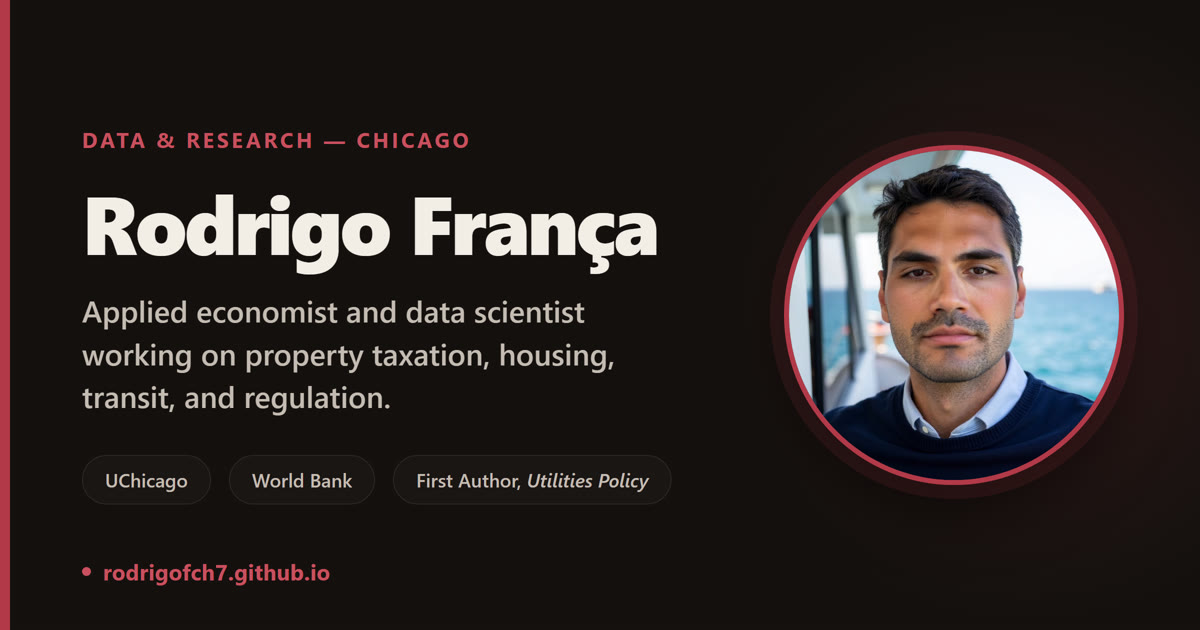
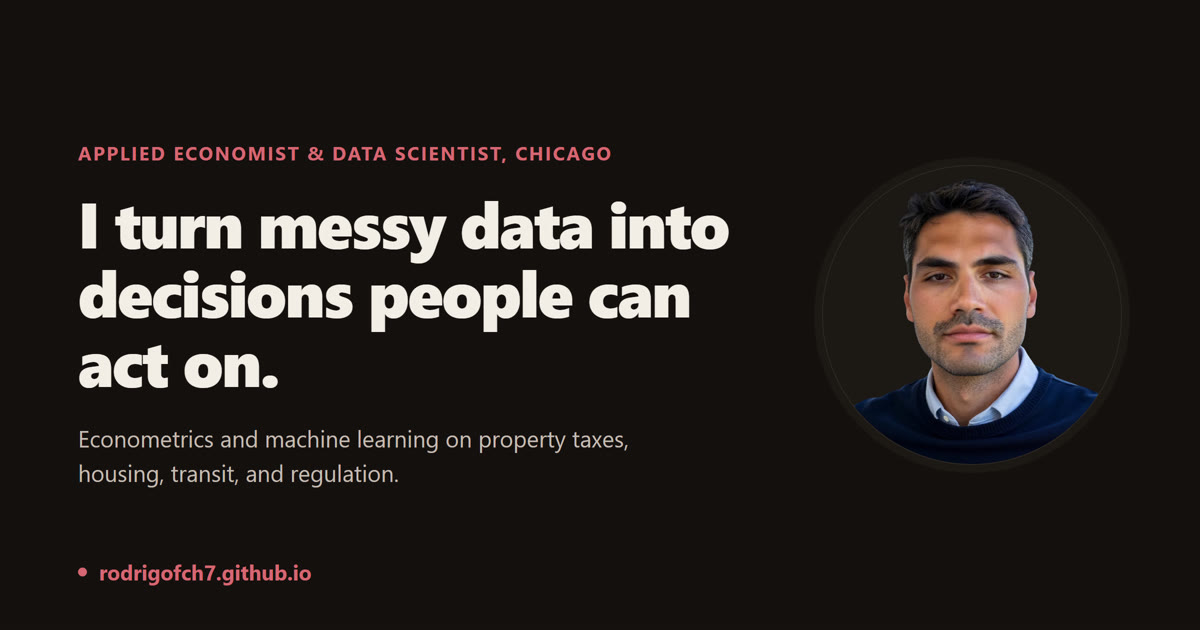
Use the background-free portrait, and rebuild the social card on the site hero
Swaps the boat photo for the supplied cutout, shipped as WebP with alpha
(58K at 850px, against 927K for PNG) so the transparent portrait sits on
whatever the theme paints behind it. .hero-portrait gains a background so
the circle reads in both themes. JPEG copies kept as a raster fallback,
composited on the dark circle tone.

The social card now mirrors the hero rather than being a separate design:
same palette, eyebrow, headline and portrait treatment.

diff --git a/assets/og-card.source.html b/assets/og-card.source.html
@@ -2,85 +2,53 @@
 <html lang="en">
 <head>
 <meta charset="UTF-8">
-<link href="https://fonts.googleapis.com/css2?family=Inter:wght@400;500;600;700;800;900&display=swap" rel="stylesheet">
+<link href="https://fonts.googleapis.com/css2?family=Inter:wght@400;500;700;800&display=swap" rel="stylesheet">
 <style>
-  *{box-sizing:border-box;margin:0;padding:0;}
+  /* Mirrors the site hero: same palette, same type scale, same portrait treatment. */
+  *{box-sizing:border-box;margin:0;padding:0}
   :root{
-    --bg:#14110F; --card:#1F1A17; --maroon:#B23A48; --maroon-bright:#C9505E;
-    --text:#F2EDE6; --text-soft:#C4BCB2; --text-mute:#8A8178; --border:#2E2823;
+    --bg:#14110F; --bg-soft:#1C1815; --maroon-bright:#D66672;
+    --text:#F2EDE6; --text-soft:#C4BCB2; --border:#2E2823;
   }
-  html,body{width:1200px;height:630px;}
+  html,body{width:1200px;height:630px}
   body{
-    background:var(--bg);
+    background:var(--bg); color:var(--text);
     font-family:'Inter',-apple-system,BlinkMacSystemFont,'Segoe UI',sans-serif;
-    color:var(--text);
-    display:flex; align-items:center;
-    position:relative; overflow:hidden;
+    display:flex; align-items:center; padding:0 78px;
   }
-  /* soft maroon glow behind the portrait */
-  .glow{
-    position:absolute; right:-140px; top:50%; transform:translateY(-50%);
-    width:620px; height:620px; border-radius:50%;
-    background:radial-gradient(circle, rgba(178,58,72,0.22) 0%, rgba(178,58,72,0.06) 45%, transparent 70%);
-  }
-  .accent{position:absolute; left:0; top:0; bottom:0; width:10px; background:var(--maroon);}
-  .inner{
-    position:relative; z-index:2;
-    display:flex; align-items:center; gap:64px;
-    padding:0 76px 0 82px; width:100%;
-  }
-  .left{flex:1; min-width:0;}
+  .hero-top{display:grid; grid-template-columns:1fr 300px; gap:56px; align-items:center; width:100%}
   .eyebrow{
-    font-size:21px; font-weight:700; color:var(--maroon-bright);
-    text-transform:uppercase; letter-spacing:0.14em; margin-bottom:26px;
+    font-size:19px; font-weight:700; color:var(--maroon-bright);
+    text-transform:uppercase; letter-spacing:0.09em; margin-bottom:22px;
   }
   h1{
-    font-size:82px; font-weight:800; line-height:1.02;
-    letter-spacing:-0.033em; margin-bottom:26px; white-space:nowrap;
+    font-weight:800; font-size:64px; line-height:1.08;
+    letter-spacing:-0.028em; margin-bottom:26px; color:var(--text);
   }
-  .role{
-    font-size:30px; font-weight:500; color:var(--text-soft);
-    line-height:1.42; margin-bottom:38px; max-width:600px;
-  }
-  .creds{display:flex; align-items:center; gap:18px; margin-bottom:0;}
-  .cred{
-    font-size:19px; font-weight:600; color:var(--text-soft);
-    border:1px solid var(--border); background:rgba(255,255,255,0.025);
-    border-radius:999px; padding:11px 22px; white-space:nowrap;
-  }
-  .portrait-wrap{position:relative; flex-shrink:0;}
+  .hero-sub{font-size:23px; line-height:1.5; color:var(--text-soft); max-width:640px}
   .portrait{
-    width:340px; height:340px; border-radius:50%;
+    width:300px; height:300px; border-radius:50%;
     object-fit:cover; display:block;
-    border:5px solid var(--maroon);
-    box-shadow:0 0 0 14px rgba(178,58,72,0.13), 0 26px 60px rgba(0,0,0,0.55);
+    background:var(--bg-soft);
+    border:1px solid var(--border);
+    box-shadow:0 0 0 8px var(--bg-soft);
   }
   .url{
-    position:absolute; z-index:2; left:82px; bottom:44px;
+    position:absolute; left:78px; bottom:44px;
     display:flex; align-items:center; gap:12px;
-    font-size:22px; font-weight:700; color:var(--maroon-bright);
-    letter-spacing:0.01em;
+    font-size:21px; font-weight:700; color:var(--maroon-bright);
   }
-  .dot{width:9px; height:9px; border-radius:50%; background:var(--maroon-bright);}
+  .dot{width:9px;height:9px;border-radius:50%;background:var(--maroon-bright)}
 </style>
 </head>
 <body>
-  <div class="accent"></div>
-  <div class="glow"></div>
-  <div class="inner">
-    <div class="left">
-      <div class="eyebrow">Data &amp; Research — Chicago</div>
-      <h1>Rodrigo França</h1>
-      <div class="role">Applied economist and data scientist working on property taxation, housing, transit, and regulation.</div>
-      <div class="creds">
-        <span class="cred">UChicago</span>
-        <span class="cred">World Bank</span>
-        <span class="cred">First Author, <i>Utilities Policy</i></span>
-      </div>
+  <div class="hero-top">
+    <div>
+      <div class="eyebrow">Applied economist &amp; data scientist, Chicago</div>
+      <h1>I turn messy data into decisions people can act on.</h1>
+      <div class="hero-sub">Econometrics and machine learning on property taxes, housing, transit, and regulation.</div>
     </div>
-    <div class="portrait-wrap">
-      <img class="portrait" src="assets/rodrigo-headshot@2x.jpg" alt="">
-    </div>
+    <img class="portrait" src="rodrigo-headshot@2x.webp" alt="">
   </div>
   <div class="url"><span class="dot"></span>rodrigofch7.github.io</div>
 </body>

diff --git a/index.html b/index.html
@@ -159,6 +159,7 @@
     border-radius:50%;
     object-fit:cover;
     display:block;
+    background:var(--bg-soft);   /* the cutout is transparent; this is the circle behind it */
     border:1px solid var(--border);
     box-shadow:0 0 0 4px var(--bg-soft);
   }
@@ -341,8 +342,8 @@
           <a href="assets/Rodrigo_Franca_Chaves_CV.pdf" class="btn btn-secondary" target="_blank" rel="noopener">Download CV</a>
         </div>
       </div>
-      <img class="hero-portrait" src="assets/rodrigo-headshot.jpg"
-           srcset="assets/rodrigo-headshot.jpg 425w, assets/rodrigo-headshot@2x.jpg 850w"
+      <img class="hero-portrait" src="assets/rodrigo-headshot.webp"
+           srcset="assets/rodrigo-headshot.webp 425w, assets/rodrigo-headshot@2x.webp 850w"
            sizes="168px" width="168" height="168"
            alt="Portrait of Rodrigo França Chaves">
     </div>
